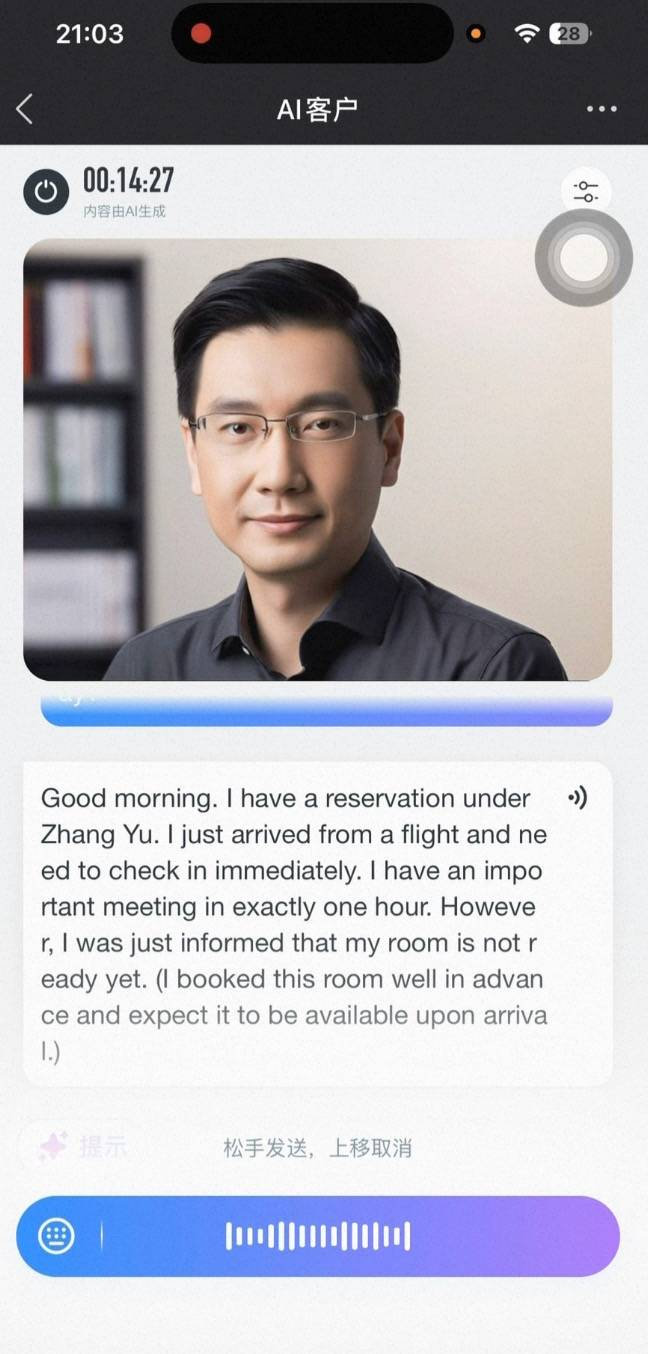
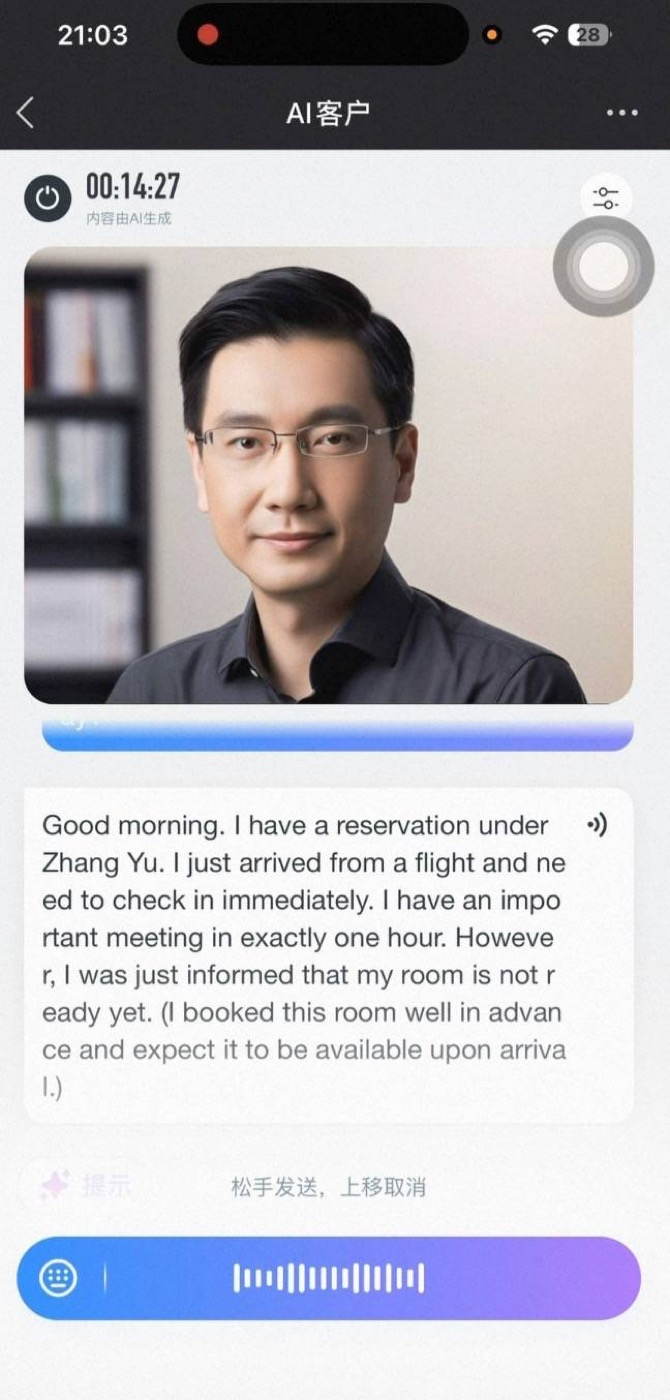
perf: compress images 6.4MB->2MB, fix peilian dup + strategy map, add lazy load + preload

diff --git a/workbench/index.html b/workbench/index.html
@@ -712,6 +712,7 @@ footer{
 }
 
 </style>
+  <link rel="preload" as="image" href="assets/hero.jpg" fetchpriority="high">
 </head>
 <body>
 
@@ -772,7 +773,7 @@ footer{
     </div>
     <div class="hero-visual fade-in">
       <div class="hero-cover">
-        <img src="assets/img-00-60f4a32863.png" alt="香格里拉酒店 × 钉钉数字化协同" width="800" height="462" />
+        <img loading="eager" fetchpriority="high" decoding="async" src="assets/hero.jpg" alt="香格里拉酒店 × 钉钉数字化协同" width="800" height="462" />
         <div class="hero-cover-glow"></div>
         <div class="hero-cover-badge">
           <span class="dot"></span>
@@ -904,7 +905,7 @@ footer{
       <div class="wb-grid">
         <div class="wb-screenshot-wrap">
           <span class="wb-screenshot-tag">PC · 香格里拉运营工作台</span>
-          <img src="assets/img-01-d630183586.jpg" alt="运营工作台 PC 截图"/>
+          <img loading="lazy" decoding="async" src="assets/img-01-d630183586.jpg" alt="运营工作台 PC 截图"/>
         </div>
         <div>
           <div class="wb-card">
@@ -934,7 +935,7 @@ footer{
       <div class="wb-grid">
         <div class="wb-screenshot-wrap">
           <span class="wb-screenshot-tag">PC · 香格里拉人事工作台</span>
-          <img src="assets/img-02-a47b369e3c.jpg" alt="人事工作台 PC 截图"/>
+          <img loading="lazy" decoding="async" src="assets/img-02-a47b369e3c.jpg" alt="人事工作台 PC 截图"/>
         </div>
         <div>
           <div class="wb-card">
@@ -964,7 +965,7 @@ footer{
       <div class="wb-grid">
         <div class="wb-screenshot-wrap">
           <span class="wb-screenshot-tag">PC · 香格里拉IT工作台</span>
-          <img src="assets/img-03-cca1f9ffb7.jpg" alt="IT工作台 PC 截图"/>
+          <img loading="lazy" decoding="async" src="assets/img-03-cca1f9ffb7.jpg" alt="IT工作台 PC 截图"/>
         </div>
         <div>
           <div class="wb-card">
@@ -994,7 +995,7 @@ footer{
       <div class="wb-grid">
         <div class="wb-screenshot-wrap">
           <span class="wb-screenshot-tag">PC · 通用工作台</span>
-          <img src="assets/img-04-83da7a370f.jpg" alt="通用工作台 PC 截图"/>
+          <img loading="lazy" decoding="async" src="assets/img-04-83da7a370f.jpg" alt="通用工作台 PC 截图"/>
         </div>
         <div>
           <div class="wb-card">
@@ -1086,8 +1087,8 @@ footer{
           
 <div class="lx-carousel" id="lxCarousel">
   <div class="lx-track" id="lxTrack">
-    <div class="lx-slide"><img src="assets/img-05-e040b54f5c.jpg" alt="AI陪练界面1" /></div>
-    <div class="lx-slide"><img src="assets/img-05-e040b54f5c.jpg" alt="AI陪练界面2" /></div>
+    <div class="lx-slide"><img src="assets/img-05-e040b54f5c.jpg" alt="AI陪练界面1" loading="lazy" /></div>
+    <div class="lx-slide"><img src="assets/peilian-2.jpg" alt="AI陪练界面2" loading="lazy" /></div>
   </div>
   <button class="lx-arrow prev" onclick="lxMove(-1)">&#8249;</button>
   <button class="lx-arrow next" onclick="lxMove(1)">&#8250;</button>
@@ -1135,7 +1136,7 @@ footer{
       <div class="scenario-demo">
         <div class="demo-img">
           <span class="demo-tag">LIVE · 授课学堂</span>
-          <img src="assets/img-06-a6df2e6bae.jpg" alt="授课学堂界面" />
+          <img loading="lazy" decoding="async" src="assets/img-06-a6df2e6bae.jpg" alt="授课学堂界面" />
           <span class="demo-caption">在线培训大学 · 服务标准化</span>
         </div>
       </div>
@@ -1162,7 +1163,7 @@ footer{
       <div class="scenario-demo">
         <div class="demo-img">
           <span class="demo-tag">LIVE · 战略解码</span>
-          <img src="assets/img-06-a6df2e6bae.jpg" alt="战略解码界面" />
+          <img src="assets/strategy-map.jpg" alt="战略解码界面" loading="lazy" />
           <span class="demo-caption">Agoal 组织大脑 · 战略解码与人才盘点</span>
         </div>
       </div>
@@ -1188,7 +1189,7 @@ footer{
       <div class="scenario-demo">
         <div class="demo-img">
           <span class="demo-tag">LIVE · 多语言会议</span>
-          <img src="assets/img-07-d879e3b524.png" alt="钉钉跨国视频会议界面 · 多语言实时字幕" width="800" height="353" />
+          <img loading="lazy" decoding="async" src="assets/img-07-d879e3b524.jpg" alt="钉钉跨国视频会议界面 · 多语言实时字幕" width="800" height="353" />
           <span class="demo-caption">钉钉视频会议 · 实时翻译与AI听记</span>
         </div>
 
@@ -1212,7 +1213,7 @@ footer{
       <div class="scenario-demo">
         <a href="https://alidocs.dingtalk.com/i/spaces/lPDmrxQoenxD3zxd/overview" target="_blank" rel="noopener" style="display:block">        <div class="demo-img">
           <span class="demo-tag">运营助理 · 知识库智能问答</span>
-          <img src="assets/img-08-25c7d4e931.jpg" alt="SOP更新一次全集团同步到位" width="800" height="420" />
+          <img loading="lazy" decoding="async" src="assets/img-08-25c7d4e931.jpg" alt="SOP更新一次全集团同步到位" width="800" height="420" />
           <span class="demo-caption">点击进入香格里拉知识库 →</span>
         </div>
         </a>
@@ -1236,7 +1237,7 @@ footer{
       <div class="scenario-demo">
         <a href="https://deap-agent.dingtalk.com/h5/index.html?publish_h5=1&code=cfee1cc9-f77e-4687-917e-daf2afd111a0" target="_blank" rel="noopener" style="display:block">        <div class="demo-img">
           <span class="demo-tag">AI 助理 · 企业专属问答</span>
-          <img src="assets/img-09-507359ae85.jpg" alt="香格里拉AI助理对话界面" width="800" height="503" />
+          <img loading="lazy" decoding="async" src="assets/img-09-507359ae85.jpg" alt="香格里拉AI助理对话界面" width="800" height="503" />
           <span class="demo-caption">点击与AI助理对话 →</span>
         </div>
         </a>
@@ -1304,7 +1305,7 @@ footer{
       <div class="scenario-demo">
         <a href="https://alidocs.dingtalk.com/i/nodes/LeBq413JAw4D2qaATrGAKyogWDOnGvpb?utm_scene=person_space" target="_blank" rel="noopener" style="display:block">        <div class="demo-img">
           <span class="demo-tag">AI 表格 · 新店筹备项目</span>
-          <img src="assets/img-10-bba818f0d1.png" alt="AI 表格 - 新店筹备项目管理界面" width="800" height="370" />
+          <img loading="lazy" decoding="async" src="assets/img-10-bba818f0d1.jpg" alt="AI 表格 - 新店筹备项目管理界面" width="800" height="370" />
           <span class="demo-caption">点击进入 AI 表格 →</span>
         </div>
         </a>
@@ -1328,7 +1329,7 @@ footer{
       <div class="scenario-demo">
         <a href="https://www.aliwork.com/" target="_blank" rel="noopener" style="display:block">        <div class="demo-img">
           <span class="demo-tag">宜搭 · 酒店行业模板库</span>
-          <img src="assets/img-11-84f863432d.png" alt="宜搭低代码模板 - 酒店行业应用" width="800" height="530" />
+          <img loading="lazy" decoding="async" src="assets/img-11-84f863432d.jpg" alt="宜搭低代码模板 - 酒店行业应用" width="800" height="530" />
           <span class="demo-caption">点击进入宜搭搭建 →</span>
         </div>
         </a>
